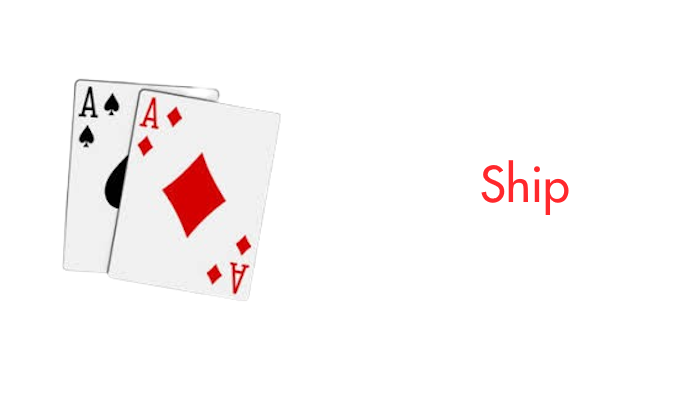
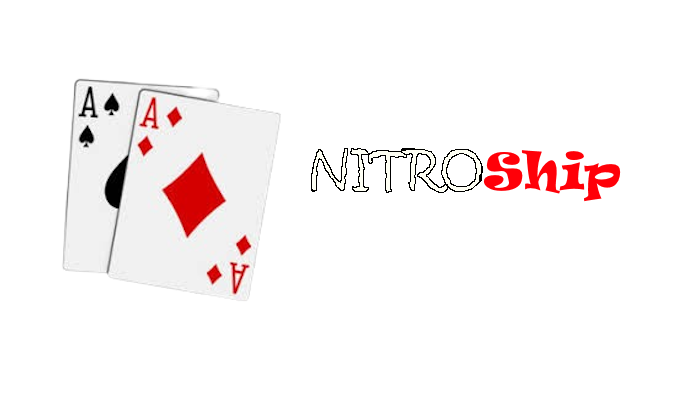
Add files via upload

Changed region(s): [[0.45, 0.36, 0.9, 0.54]]

diff --git a/index.html b/index.html
@@ -1,7 +1,7 @@
 <!DOCTYPE html>
 <html lang="en">
 <head>
-    <title>BloxShip | Win ROBUX at the #3 ROBLOX Game Site!</title>
+    <title>NitroShip | Win NITRO at the #3 Discord Game Site!</title>
     <link rel="icon" href="images/logo.png">
     <meta name="viewport" content="width=device-width, initial-scale=1">
     <meta charset="utf-8">
@@ -165,7 +165,7 @@
         <div class="agile_info">
             <div class="w3l_form">
                 <div class="left_grid_info">
-                    <h1>NitroShip | Roblox Casino</h1>
+                    <h1>NitroShip | Discord Casino</h1>
                     <h2>What is NitroShip?</h2>
                     <p>NitroShip is a new thrilling Discord gambling website with three unique game-modes! Our Coinflip mode is peer 2 peer meaning there is no house involved, purely testing your luck against other players! In Jackpot you're able to win up to 15 items with a potential 15 other players putting their items at stake each round. Rock Paper Scissors is similar to our Coinflip mode, with the added element of player choice to selecting a pick!</p><br>
                     <h2>Is my account safe?</h2>
@@ -195,7 +195,7 @@
                    </div>                    
                         <button class="btn btn-danger btn-block" type="submit">Log In</button>
                 </form>
-                <p class="account">New to NitroShip &amp; Roblox? <a href="https://www.roblox.com/account/signupredir" target="_blank">Create an account</a></p>
+                <p class="account">New to NitroShip &amp; Discord? <a href="https://www.discord.com/register" target="_blank">Create an account</a></p>
                 <p class="account1">©NitroShip - Logo and Powering Imagination with Communication are among our registered and unregistered trademarks in the U.S.A. and other countries.<a href="#"></a></p>
             </div>
         </div>
